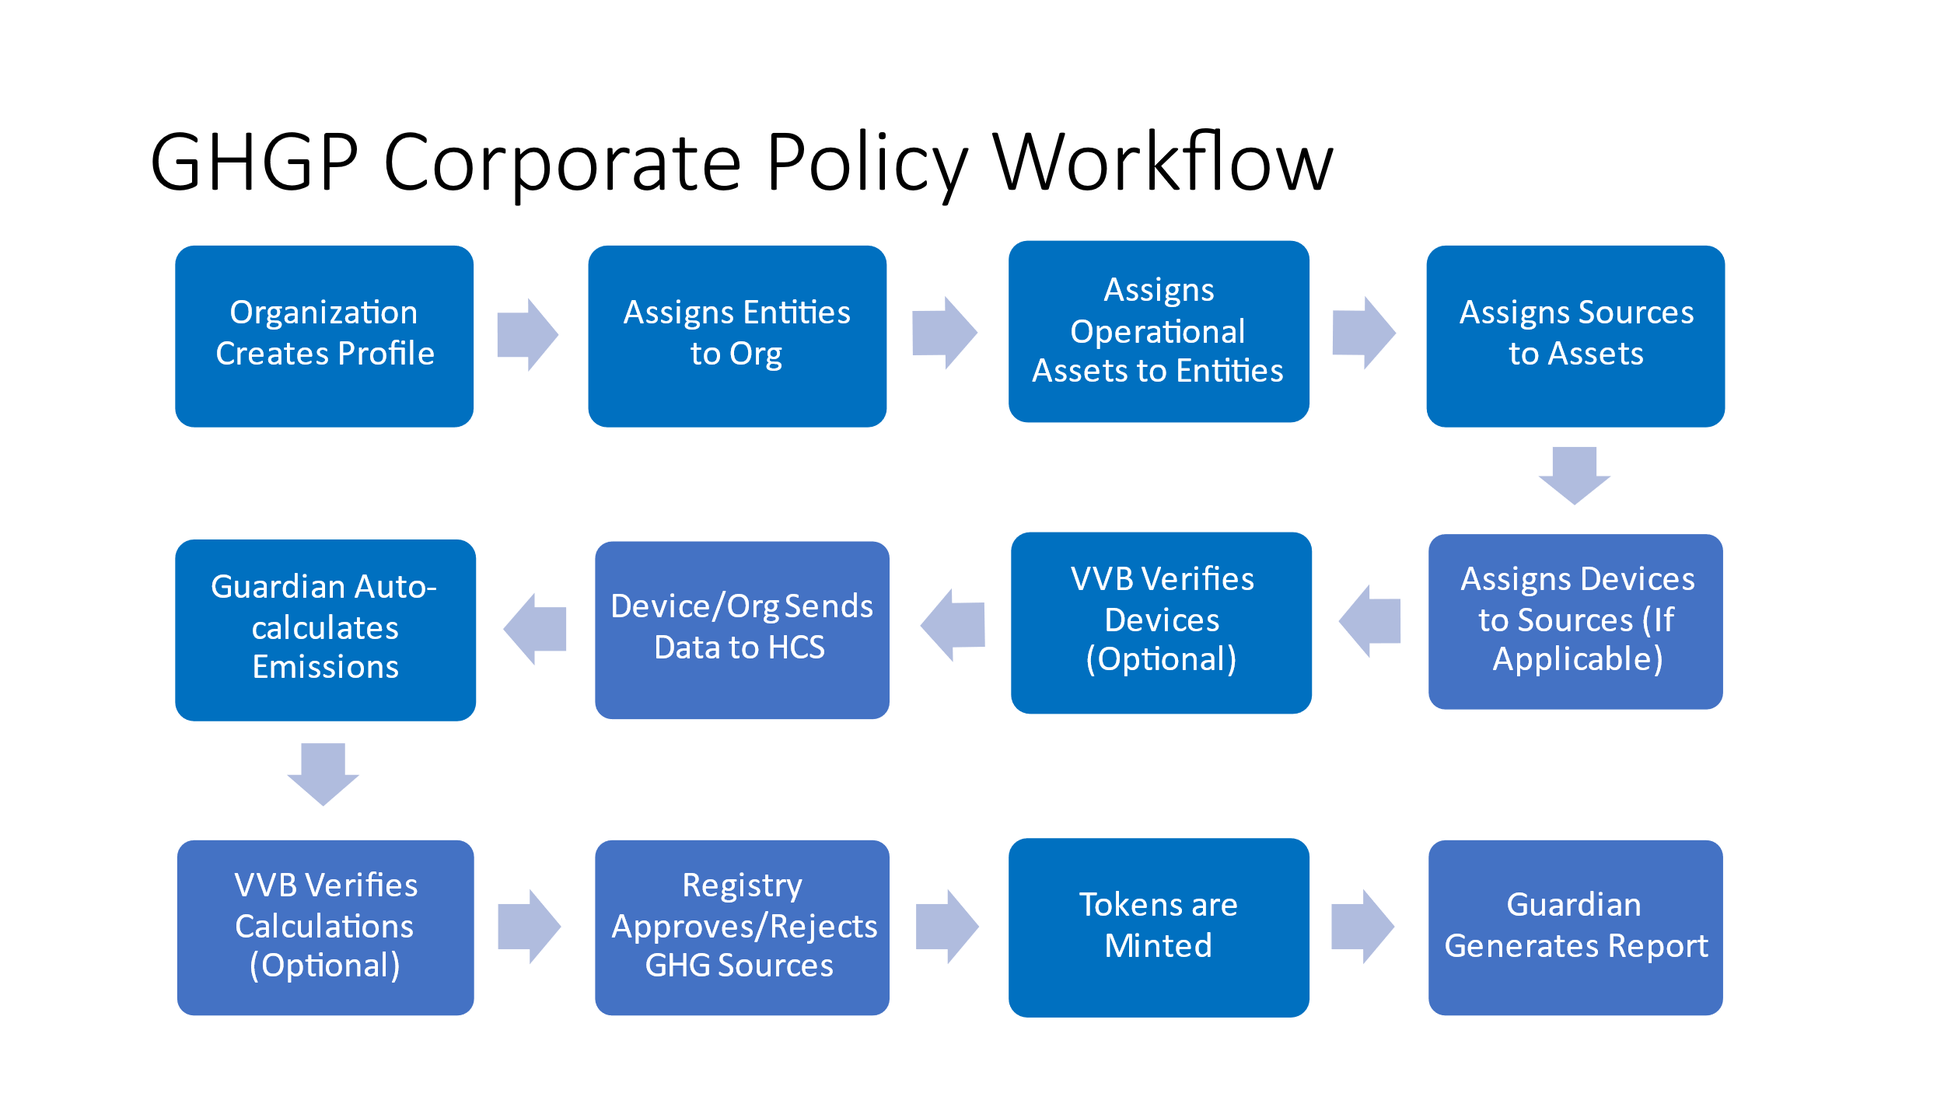
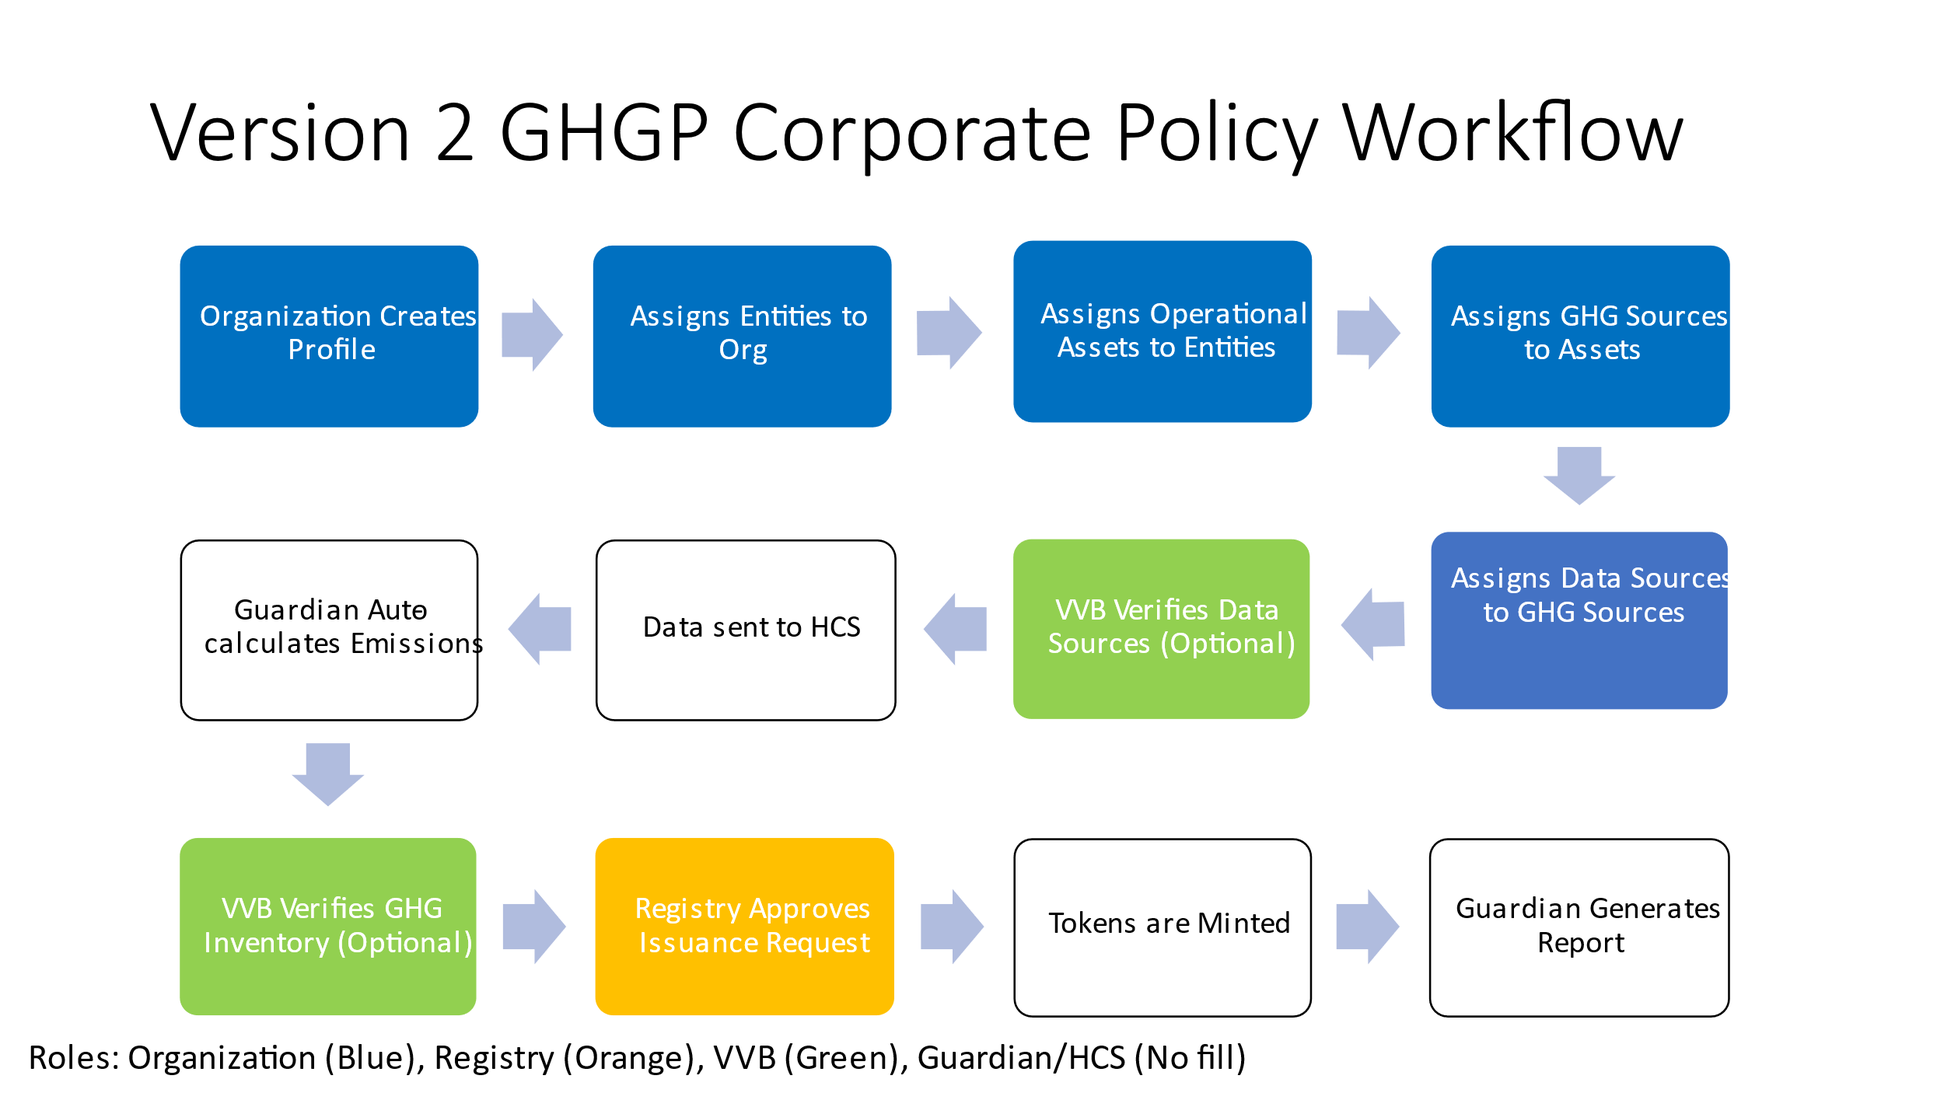
GITBOOK-12: GHGP V2 policy added

diff --git a/docs/guardian/demo-guide/carbon-emissions/ghgp-corporate-standard-v2.md b/docs/guardian/demo-guide/carbon-emissions/ghgp-corporate-standard-v2.md
@@ -1,46 +1,44 @@
----
-description: This policy is developed by Envision
----
-
-# 🏭 GHGP Corporate Standard
+# 🏭 GHGP Corporate Standard V2
 
 ## Table of Contents
 
-[Introduction](ghgp-corporate-standard.md#\_toc141460612)
+[Introduction](ghgp-corporate-standard-v2.md#\_toc146717947)
 
-[Need and Use for the GHGP Corporate Standard Policy](ghgp-corporate-standard.md#\_toc141460613)
+[Need and Use for the GHGP Corporate Standard Policy](ghgp-corporate-standard-v2.md#\_toc146717948)
 
-[Demo Video](ghgp-corporate-standard.md#\_toc141460614)
+[Demo Video](ghgp-corporate-standard-v2.md#\_toc146717949)
 
-[Policy Workflow](ghgp-corporate-standard.md#\_toc141460615)
+[Policy Workflow](ghgp-corporate-standard-v2.md#\_toc146717950)
 
-[Policy Guide](ghgp-corporate-standard.md#\_toc141460616)
+[Policy Guide](ghgp-corporate-standard-v2.md#\_toc146717951)
 
-[Available Roles](ghgp-corporate-standard.md#\_toc141460617)
+[Available Roles](ghgp-corporate-standard-v2.md#\_toc146717952)
 
-[Important Documents & Schemas](ghgp-corporate-standard.md#\_toc141460618)
+[Important Documents & Schemas](ghgp-corporate-standard-v2.md#\_toc146717953)
 
-[Token (Carbon Emission)](ghgp-corporate-standard.md#\_toc141460619)
+[Token (Carbon Emission)](ghgp-corporate-standard-v2.md#\_toc146717954)
 
-[Step by Step](ghgp-corporate-standard.md#\_toc141460620)
+[Step by Step](ghgp-corporate-standard-v2.md#\_toc146717955)
 
-&#x20;     [Organization Flow](ghgp-corporate-standard.md#\_toc141460621)
+&#x20;       [Organization Flow](ghgp-corporate-standard-v2.md#\_toc146717956)
 
-&#x20;     [Administrator (Registry) Flow](ghgp-corporate-standard.md#\_toc141460622)
+&#x20;       [VVB Flow](ghgp-corporate-standard-v2.md#\_toc146717957)
 
-[Futureproofing (Automated GHG Inventories)](ghgp-corporate-standard.md#\_toc141460623)
+&#x20;       [Administrator (Registry) Flow](ghgp-corporate-standard-v2.md#\_toc146717958)
 
-[TODO](ghgp-corporate-standard.md#\_toc141460624)
+[Futureproofing (Automated GHG Inventories)](ghgp-corporate-standard-v2.md#\_toc146717959)
 
-### Introduction <a href="#_toc141460612" id="_toc141460612"></a>
+[TODO](ghgp-corporate-standard-v2.md#\_toc146717960)
+
+### Introduction <a href="#_toc146717947" id="_toc146717947"></a>
 
 The GHG Protocol Corporate Accounting and Reporting Standard (GHGP Corporate Standard) is the world’s leading standard outlining requirements and guidance for corporate-level and organizational-level GHG emission inventories. As of 2016, approximately 92% of Fortune 500 companies responding to the CDP—an investor-led effort to increase corporate carbon disclosures—referenced the used the GHGP Corporate Standard to conduct their GHG inventories.\[1] Also, many other GHG-related standards—such as the Natural Capital Partner’s CarbonNeutral Protocol and the Science Based Targets Initiative (SBTi)—point to the Greenhouse Gas Protocol as the default standard for the quantification and accounting of corporate GHG emissions. As future regulations and standards are developed and implemented, they are likely to either prescribe or encourage the use of Greenhouse Gas Protocol standards.
 
 This Guardian Policy mints Carbon Emission Tokens (CETs) in accordance with the GHGP Corporate Standard, including the Scope 2 Guidance, which was later published as an amendment to the GHGP Corporate Standard. The policy and methodologies are designed to calculate emissions based on MRV data that can either be manually input, or automatically transmitted by devices such as IoT-enabled electricity meters. The policy is equipped with standard emission factors (such as eGRID emission rates) and Intergovernmental Panel on Climate Change (IPCC) global warming potentials (GWPs).
 
-The policy currently covers emissions from grid electricity consumption (location and market-based calculations), natural gas consumption, mobile combustion, and refrigerants. In future iterations of the policy, GHG sources can be modulated, and additional sources can be added as necessary. The policy is designed to be dynamic, allowing organizations to assign entities to organizations, assets/emission generating objects (EGOs) to entities, and GHG sources to assets/EGOs in a hierarchical structure to dynamically tailor the policy and inventory to specific corporate structures and operations. This aspect may also be modulated in future iterations of the policy.
+The policy currently covers emissions from grid electricity consumption (location and market-based calculations), natural gas consumption, mobile combustion, and refrigerants. The policy is designed to be dynamic, allowing organizations to assign entities to organizations, assets/emission generating objects (EGOs) to entities, and GHG sources to assets/EGOs in a hierarchical structure to dynamically tailor the policy and inventory to specific corporate structures and operations.
 
-### Need and Use for the GHGP Corporate Standard Policy <a href="#_toc141460613" id="_toc141460613"></a>
+### Need and Use for the GHGP Corporate Standard Policy <a href="#_toc146717948" id="_toc146717948"></a>
 
 According to the IPCC, in order to avoid potentially irreversible impacts of climate change, global GHG emissions should be reduced by approximately 45% by 2030 (relative to 2010 levels) and achieve net zero by around 2050. Therefore, it comes as no surprise that the largest companies in the world are increasingly aligning their GHG reduction targets with the latest scientific models, in an effort to both exhibit their commitment to sustainability, as well as to remain viable in a low-carbon future. The number of companies working with the Science Based Targets initiative (SBTi) has increased nearly 1,900% between 2015 and 2020, with 1,039 cumulatively committed companies representing nearly 20% of global market capitalization (over $20.5 trillion USD).
 
@@ -48,48 +46,48 @@ The increase in corporate and organizational commitments to measure, disclose, a
 
 Despite a growing interest in measuring, disclosing, and reducing GHG emissions from corporations, regulators, and investors alike, companies are struggling to accurately measure and report emissions. In general, current quantification methodologies are flawed, GHG accounting standards leave significant room for error, access to quality data is low, and there is a prevailing lack of GHG accounting expertise. As a result, high-profile companies have been exposed for incorrect GHG inventories and worse, misleading claims on carbon performance. According to an article by Bloomberg, ‘Corporate Greenhouse Gas Data Doesn’t Always Add Up,’ “As companies rush to set climate goals, some aren’t even getting the basics quite right when it comes to accounting for greenhouse-gas emissions. According to researchers in Ireland, the U.K. and Germany, based on decade’s worth of corporate emissions data, “when the numbers were tallied, many didn’t add up. They found instances of errors, omissions and rounding issues (often down rather than up).”
 
-The Guardian GHGP Corporate Policy offers a unique technical opportunity for companies to streamline, add robustness, and build trust and transparency into their GHG inventories. The policy allows user to dynamically add entities and EGOs to organizations and GHG sources to EGOs to build their inventories in alignment with their specific corporate structures. MRV data can then be fed into GHG source schemas through verified devices such as IoT-enabled meters, or added manually depending on the users level of digitization. The inventory is further streamlined through schemas with built in auto-calculation blocks, emission factors, and GWPs. The results of the inventory can be immutably and transparently verified by third parties. Finally, the emissions are tokenized to allow for enhanced tracking, transparency, accounting, and reporting, with the results and data structured in accordance with GHGP reporting requirements.
+The Guardian GHGP Corporate Policy offers a unique technical opportunity for companies to streamline, add robustness, and build trust and transparency into their GHG inventories. The policy allows user to dynamically add entities and EGOs to organizations and GHG sources to EGOs to build their inventories in alignment with their specific corporate structures. MRV data can then be automatically input (via API) into GHG source schemas by verified devices such as IoT-enabled meters, or added manually depending on the users level of digitization. The inventory is further streamlined through schemas with built in auto-calculation blocks, emission factors, and GWPs. The results of the inventory can be immutably and transparently verified by third parties. Finally, the emissions are tokenized to allow for enhanced tracking, transparency, accounting, and reporting, with the results and data structured in accordance with GHGP reporting requirements.
 
-### Demo Video <a href="#_toc141460614" id="_toc141460614"></a>
+### Demo Video <a href="#_toc146717949" id="_toc146717949"></a>
 
 (Coming Soon)
 
-### Policy Workflow <a href="#_toc141460615" id="_toc141460615"></a>
+### Policy Workflow <a href="#_toc146717950" id="_toc146717950"></a>
 
-![](<../../../.gitbook/assets/0 (7) (1).png>)
+![](<../../../.gitbook/assets/0 (8).png>)
 
-### Policy Guide <a href="#_toc141460616" id="_toc141460616"></a>
+### Policy Guide <a href="#_toc146717951" id="_toc146717951"></a>
 
 This policy is published to Hedera network and can either be imported via Github (.policy file) or IPSF timestamp.
 
-Latest Version - 695216161.052983914
+Latest Version - 1694683345.947253323
 
-### Available Roles <a href="#_toc141460617" id="_toc141460617"></a>
+### Available Roles <a href="#_toc146717952" id="_toc146717952"></a>
 
-**Registry** – The role responsible for publishing policies, creating tokens, and approving/rejecting GHG sources added by the organization.
+**Registry** – The role responsible for publishing policies, creating tokens, and issuing CETs to organizations in accordance with the policy and methodology.
 
-**Organization** – Company or other organization generating, quantifying, and reporting GHG emissions.
+**Organization** – Company or other organization generating, quantifying, and reporting GHG emissions. The organization also provides MRV data and receives CETs.
 
-**VVB (Validation & Verification Body)** – Independent third party who audits organization’s critical documentation, MRV data, and GHG emission calculations. Verification is optional for this policy as it is optional under the GHGP Corporate Standard.\[2]
+**VVB (Validation & Verification Body)** – Independent third party who audits organization’s critical documentation, MRV data and sources, and GHG inventories. Verification is optional for this policy as it is optional under the GHGP Corporate Standard. The workflow steps involving the VVBs will not block the subsequent steps or the minting of CETs, therefore they can be 1) executed according to the workflow above, 2) skipped, or 3) executed later in the workflow.
 
-### Important Documents & Schemas <a href="#_toc141460618" id="_toc141460618"></a>
+### Important Documents & Schemas <a href="#_toc146717953" id="_toc146717953"></a>
 
-1. **Organizational Profile** – The company or organization creates a profile of key information, targets, and reporting metrics. Entities (such as business units, subsidiaries, etc.) are assigned to the company or organization.
-2. **Entity Schema** – The company creates profiles with key information for each entity. Assets and EGOs (such as facilities, vehicles, etc.) are assigned to entities. Together, the entities make up the corporate structure by which the inventory is based.
-3. **Asset Schema** — Information on company assets is input and GHG sources (such grid electricity, fuel consumption, etc.) are assigned to assets.
-4. **Source Schema** — Activity data (such electrical consumption, fuel consumption, etc.) are used to auto-calculate GHG emissions.
-5. **Raw Data Schema** — Data from devices such as IoT-enabled electricity meters is collected and fed into the corresponding Source Schema for calculations.
-6. **Reporting Metrics** — Key metrics are collected from the schemas to support reporting in alignment with the GHGP Corporate Standard.
+1. Organizational Profile – The company or organization creates a profile of key information, targets, and reporting metrics. Entities (such as business units, subsidiaries, etc.) are assigned to the company or organization.
+2. Entity Schema – The company creates profiles with key information for each entity. Assets and EGOs (such as facilities, vehicles, etc.) are assigned to entities. Together, the entities make up the corporate structure by which the inventory is based.
+3. Asset Schema — Information on company assets is input and GHG sources (such grid electricity, fuel consumption, etc.) are assigned to assets.
+4. Source Schema — Activity data (such electrical consumption, fuel consumption, etc.) are used to auto-calculate GHG emissions.
+5. Raw Data Schema — Data from devices such as IoT-enabled electricity meters is collected and fed into the corresponding Source Schema for calculations.
+6. Reporting Metrics — Key metrics are collected from the schemas to support reporting in alignment with the GHGP Corporate Standard.
 
-### Token (Carbon Emission) <a href="#_toc141460619" id="_toc141460619"></a>
+### Token (Carbon Emission) <a href="#_toc146717954" id="_toc146717954"></a>
 
-Carbon Emission Token (CET) equivalent to 1 metric ton of CO2e emissions
+Carbon Emission Token (CET) equivalent to 1 metric ton of CO2e emissions.
 
-### Step by Step <a href="#_toc141460620" id="_toc141460620"></a>
+### Step by Step <a href="#_toc146717955" id="_toc146717955"></a>
 
-### Organization Flow <a href="#_toc141460621" id="_toc141460621"></a>
+### Organization Flow <a href="#_toc146717956" id="_toc146717956"></a>
 
-The Organization is allowed to publish and edit policy config, schemas, tokens and all the workflow logic associated with it. They are responsible for inputting key information and assigning entities, assets, GHG sources, and devices in alignment with their corporate and operational structure.
+The Organization is responsible for inputting key data and information and assigning entities, assets, GHG sources, and devices in alignment with their corporate and operational structure.
 
 1. Login into the service using credentials.
 
@@ -135,7 +133,7 @@ The Organization is allowed to publish and edit policy config, schemas, tokens a
 
 <figure><img src="../../../.gitbook/assets/image (240).png" alt="" width="563"><figcaption></figcaption></figure>
 
-9. After all the applicable monitoring data is input and approved for the reporting period, key reporting metrics will be automatically populated and can be viewed under the Reporting Metrics tab in the VC document.
+9. After all the applicable monitoring data is input for the reporting period, key reporting metrics will be automatically populated and can be viewed under the Reporting Metrics tab in the VC document.
 
 <figure><img src="../../../.gitbook/assets/image (241).png" alt="" width="563"><figcaption></figcaption></figure>
 
@@ -149,23 +147,22 @@ The Organization is allowed to publish and edit policy config, schemas, tokens a
 
 <figure><img src="../../../.gitbook/assets/image (245).png" alt="" width="563"><figcaption></figcaption></figure>
 
-### Administrator (Registry) Flow <a href="#_toc141460622" id="_toc141460622"></a>
+### VVB Flow \[Add Screenshots Below] <a href="#_toc146717957" id="_toc146717957"></a>
 
-1. Following step 8 of the Organizational Flow, the Administrator (Registry) will approve or reject each source.
+1. Following step 8 of the Organizational Flow (assigning data sources to GHG sources), the VVB will be able to approve or reject MRV data and sources. The VVB will also be able to approve or reject the GHG inventory after it’s calculated by the Guardian. These steps are optional and can be skipped or executed later in the workflow.
 
-<figure><img src="../../../.gitbook/assets/image (246).png" alt="" width="563"><figcaption></figcaption></figure>
+### Administrator (Registry) Flow \[Add Screenshots Below] <a href="#_toc146717958" id="_toc146717958"></a>
 
-<figure><img src="../../../.gitbook/assets/image (247).png" alt="" width="563"><figcaption></figcaption></figure>
+1. After the organizational emissions have been calculated, the Registry will approve or reject the CET issuance request, and consequently issue CETs if approved.
 
-### Futureproofing (Automated GHG Inventories) <a href="#_toc141460623" id="_toc141460623"></a>
+### Futureproofing (Automated GHG Inventories) <a href="#_toc146717959" id="_toc146717959"></a>
 
 Due to several factors such as lack of expertise, absent third-party assurance, and methodologies that leave significant room for error, corporate GHG inventories are often inaccurate and unreliable. In addition, manually collecting monitoring and activity data each year can be a cumbersome task. By automating and digitizing the collection of monitoring data, GHG quantification calculations, and (optionally) third-party verification of devices, data, and calculations, GHG inventories can be automated and streamlined to enhance trust, transparency, and efficiency.
 
-### TODO <a href="#_toc141460624" id="_toc141460624"></a>
+### TODO <a href="#_toc146717960" id="_toc146717960"></a>
 
-Currently, under the GHG Protocol Corporate Standard, third-party assurance/verification is encouraged, but optional. This initial version of the GHGP Corporate Policy is designed to meet the minimum requirements of the standard, and as such, the role of the VVB is optional and not included. However, future versions of the policy will include an optional role of the VVB and process steps for them to verify monitoring devices and GHG inventories.
+The policy currently covers emissions from grid electricity consumption (location and market-based calculations), natural gas consumption, mobile combustion, and refrigerants. In future iterations of the policy, GHG source schemas can be modulated, and new types of data sources can be added as necessary. The policy is designed to be dynamic, allowing organizations to assign entities to organizations, assets/EGOs to entities, and GHG sources to assets/EGOs in a hierarchical structure to dynamically tailor the inventory to specific corporate structures and operations. This aspect may also be modulated in future iterations of the policy.
 
 The initial version of the GHGP Corporate Policy is includes schemas for some of the most common assets/EGOs (facilities and vehicles) and GHG sources (scope 1 - natural gas consumption, scope 1 - refrigerants, scope 1 - mobile combustion of fuel, and scope 2 - electrical consumption). However, there are other potential GHG sources that may be applicable to specific corporate GHG inventories. Further, scope 3 emissions are currently optional under the GHGP Corporate Standard, although companies may choose to include them as well. Going forward, schemas may be added for additional GHG sources and scope 3 GHG sources. These may be added to the Guardian policy in the form of policy modules.
 
 1. [https://ghgprotocol.org/companies-and-organizations](https://ghgprotocol.org/companies-and-organizations) ↑
-2. Independent third-party verification is currently optional under the GHGP Corporate Standard and is not included in the initial version of the GHGP Corporate Policy. ↑

diff --git a/docs/SUMMARY.md b/docs/SUMMARY.md
@@ -451,13 +451,13 @@
       * [📖 Introduction to Remote Work GHG](guardian/demo-guide/carbon-emissions/remote-work-ghg-policy/introduction-to-remote-work-ghg.md)
       * [💻 GHG Policy User Journey UI Demo Guide](guardian/demo-guide/carbon-emissions/remote-work-ghg-policy/ghg-policy-user-journey-ui-demo-guide.md)
       * [💻 Remote GHG Policy Demo Guide](guardian/demo-guide/carbon-emissions/remote-work-ghg-policy/remote-ghg-policy-demo-guide.md)
-      * [AMS III.D Readme](guardian/demo-guide/carbon-emissions/remote-work-ghg-policy/ams-iii.d-readme.md)
     * [🏢 Carbon Emissions Measurement - GHG Corporate Standard Policy Guide](guardian/demo-guide/carbon-emissions/carbon-emissions-measurement-ghg-corporate-standard-policy-guide.md)
     * [🏭 atma GHG Scope II Carbon Emission Policy](guardian/demo-guide/carbon-emissions/atma-ghg-scope-ii-carbon-emission-policy.md)
     * [🏭 Carbon Development Mechanism (CDM) AMS-III.AR Policy](guardian/demo-guide/carbon-emissions/carbon-development-mechanism-cdm-ams-iii.ar-policy.md)
     * [🏭 GHGP Corporate Standard](guardian/demo-guide/carbon-emissions/ghgp-corporate-standard.md)
     * [🏨 CDM AMS II.G](guardian/demo-guide/carbon-emissions/cdm-ams-ii.g.md)
     * [🏭 CDM AMS III.D](guardian/demo-guide/carbon-emissions/cdm-ams-iii.d.md)
+    * [🏭 GHGP Corporate Standard V2](guardian/demo-guide/carbon-emissions/ghgp-corporate-standard-v2.md)
 * [❓ FAQs](guardian/faqs.md)
 * [👬 Community Standards](guardian/community-standards/README.md)
   * [Guardian Policy Standards (GPS)](guardian/community-standards/guardian-policy-standards-gps.md)
